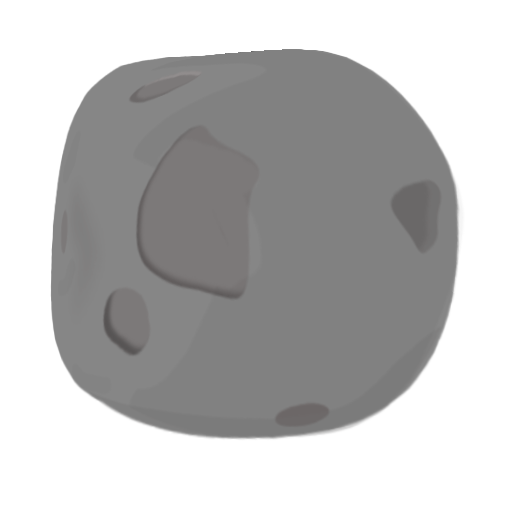
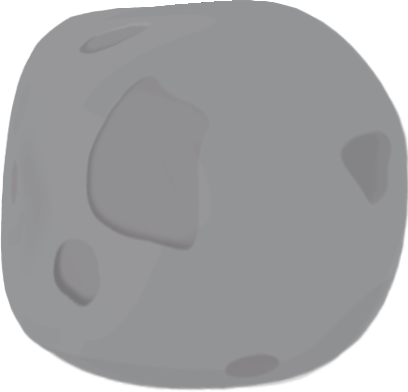
'collision_detection_system_update_+_sprites'

diff --git a/index.html b/index.html
@@ -28,7 +28,7 @@
 			height: 100%;
 			/*border: 2px solid #C6D5CD;*/
 			/*background-color: #C6D5CD;*/
-			background: url(bg.jpg) center no-repeat;
+			background: url(bg.png) center no-repeat;
 			background-size: cover;
 			position: relative;
 			border-radius: 20px;
@@ -42,7 +42,7 @@
 			
 		}
 		.col + .col{
-			border-left: 1px solid #C6D5CD;
+			border-left: 1px solid rgba(182, 184, 190, 0.35);
 		}
 		.col-1{
 			left: 0;
@@ -53,32 +53,39 @@
 		.col-3{
 			left: 66.666%;
 		}
-		#player{
+		#player-wrapp{
 			width: 33.333%;
 			position: absolute;
-			bottom: 0;
-			left: 0;
+			bottom: 16px;
+			left: 33.333%;
+			height: 56px;
 			transition: all 0.1s ease-in-out;
-			height: 80px;
+		}
+		#player{
+			margin: 0 auto;
+			width: 56px;
+			height: 56px;
 			box-sizing: border-box;
 			background-color: #C6D5CD;
-			background: url(spaceship.png) center no-repeat;
+			background: url(spaceship.svg) center no-repeat;
 			background-size: 100% 100%;
 		}
 		.cube{
-			width: 70px;
-			height: 70px;
+			width: 60px;
+			height: 60px;
 			background: url(aestroid.png) center no-repeat;
 			background-size: 100% 100%;
-			/*background-color: #DB3340;*/
 			border-radius: 10px;
 			position: absolute;
 			left: 50%;
-			margin-left: -35px;
+			margin-left: -30px;
 			top: -70px;
 			box-sizing: border-box;
-			box-shadow: 0 1px 3px rgba(0,0,0,0.12), 0 1px 2px rgba(0,0,0,0.24);
-			/*border: 1px solid #DB3340;*/
+			/*animation: rotate 15s;*/
+		}
+		@keyframes rotate {
+		    from {transform: rotateZ(0);}
+		    to {transform: rotateZ(360deg);}
 		}
 	</style>
 </head>
@@ -91,31 +98,34 @@
 			<div class="col col-1"></div>
 			<div class="col col-2"></div>
 			<div class="col col-3"></div>
-			<div id="player" data-left="0"></div>
+			<div id="player-wrapp" data-left="0">
+				<div id="player"></div>
+			</div>	
 		</div>
 	</div>
 	<script>
 		document.onkeydown = checkKey;
-		var player = document.getElementById('player'),
-			playerData = player.dataset,
+		var playerWrapp = document.getElementById('player-wrapp'),
+			player = document.getElementById('player'),
+			playerWrappData = playerWrapp.dataset,
 			score = 0,
 			cols = document.getElementsByClassName('col'),
 			cubes = [],
 			cube,
-			cubeSpeed = 7,
+			cubeSpeed = 5,
 			counter = 210,
 			deadCubeIndex = Math.floor(Math.random() * (cols.length - 0)) + 0;;
 		function checkKey(e) {
-			playerData = player.dataset;
-			var playerLeftPosition = parseFloat(playerData.left);
+			playerWrappData = playerWrapp.dataset;
+			var playerWrappLeftPosition = parseFloat(playerWrappData.left);
 		    e = e || window.event;
-		    if (e.keyCode == '37' && playerLeftPosition > 0) {
-		       playerData.left = playerLeftPosition - 33.333;
+		    if (e.keyCode == '37' && playerWrappLeftPosition > 0) {
+		       playerWrappData.left = playerWrappLeftPosition - 33.333;
 		    }
-		    else if (e.keyCode == '39' && playerLeftPosition < 66.666) {
-		       playerData.left = playerLeftPosition + 33.333;
+		    else if (e.keyCode == '39' && playerWrappLeftPosition < 66.666) {
+		       playerWrappData.left = playerWrappLeftPosition + 33.333;
 		    }
-		    player.style.left = playerData.left + '%';
+		    playerWrapp.style.left = playerWrappData.left + '%';
 		} 
 		for (var i = 0; i < cols.length; i++){
 			if (i != deadCubeIndex){
@@ -126,6 +136,7 @@
 				cols[i].appendChild(cube);
 			}
 		}
+		// meteors animation ->
 		function animate() {
 			animation_id = requestAnimationFrame(animate);
 			document.getElementById('score').innerHTML = score;
@@ -137,7 +148,7 @@
 			if (counter < 0){
 				deadCubeIndex = Math.floor(Math.random() * (cols.length - 0)) + 0;
 				for (var i = 0; i < cols.length; i++){
-					if (i != deadCubeIndex){
+					if (i != deadCubeIndex ){
 						cube = document.createElement('div');
 						cube.className = 'cube';
 						cube.topPosition = -70;
@@ -149,8 +160,12 @@
 			}
 			for (var i = 0; i < cubes.length; i++){
 				var cubeRect = cubes[i].getBoundingClientRect(),
-					playerRect = player.getBoundingClientRect()
-				if (cubeRect.left > playerRect.left && cubeRect.right < playerRect.right && cubeRect.bottom == playerRect.top){
+					playerRect = player.getBoundingClientRect();
+				// console.log(cubeRect.left + ' ' + cubeRect.right);
+				// console.log(playerRect.left + ' ' + playerRect.right);
+				// cancelAnimationFrame(animation_id);
+				if (cubeRect.left < playerRect.left && cubeRect.right > playerRect.right 
+					&& playerRect.top < cubeRect.bottom && (playerRect.top > cubeRect.top || playerRect.bottom > cubeRect.top)){  
 					cancelAnimationFrame(animation_id);
 					alert('Your score: ' + score);
 				}
